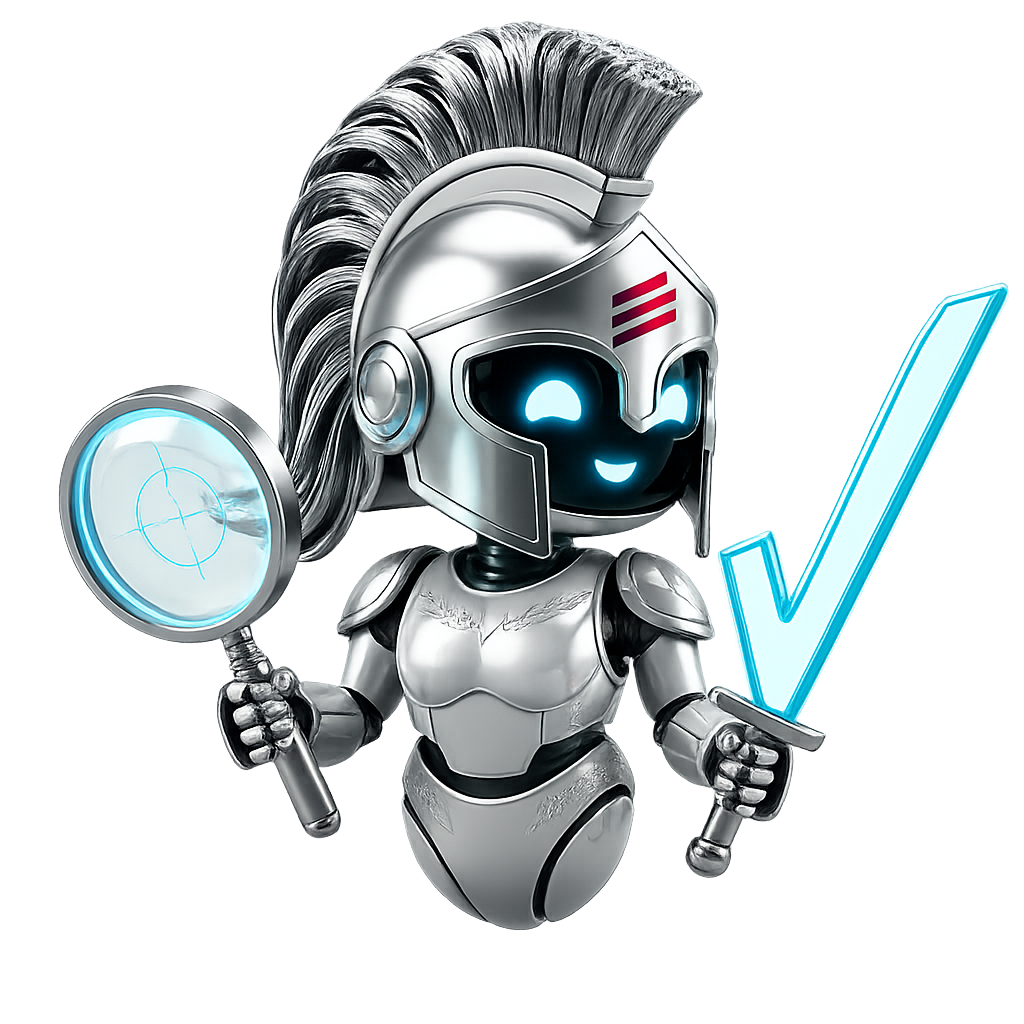
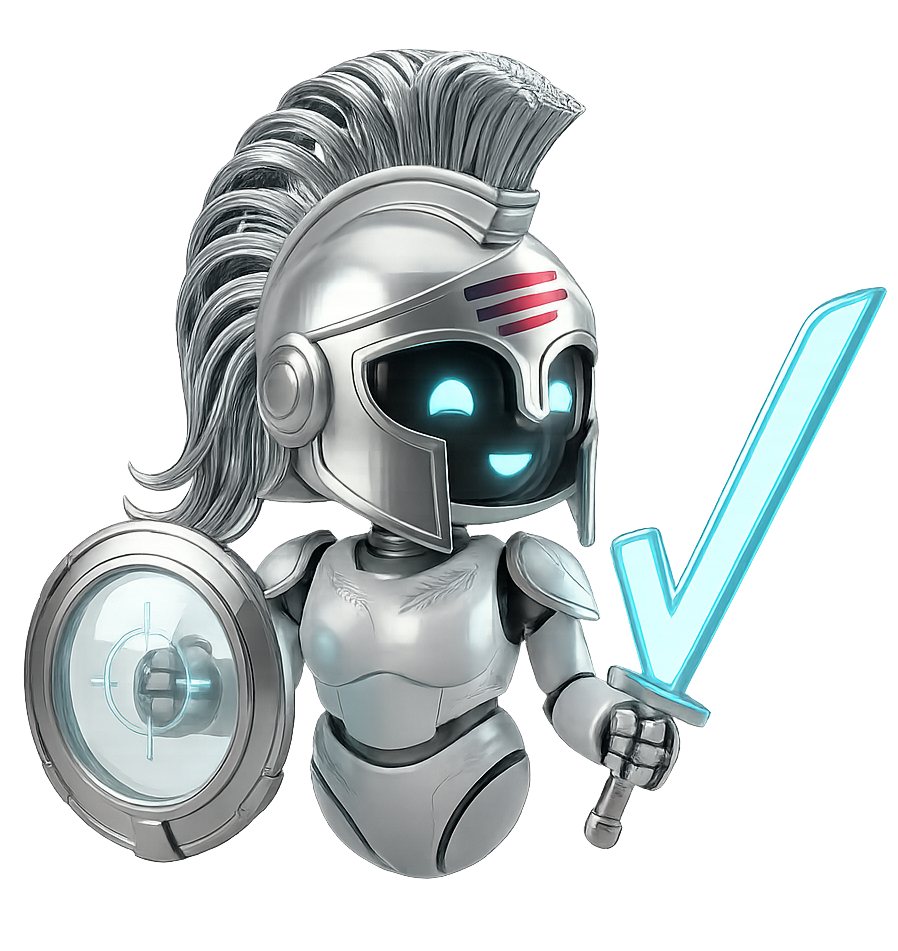
feat(ui): rediseñar backlog a 4 columnas verticales y actualizar robot Atena 2.0
- Rediseño del backlog en ConfigView2 a tablero Kanban de 4 columnas verticales por prioridad con scroll y conteo independientes.\n- Actualización del bot 3D ilustrativo en la página de inicio a la versión Atena 2.0.\n- Corrección de desfase de zona horaria (mismatch de fecha de 1 día) en selectores y cabeceras.\n- Configuración de puerto exclusivo HMR (24679) para eliminar colisiones de desarrollo paralelos.

diff --git a/src/components/ConfigView2.tsx b/src/components/ConfigView2.tsx
@@ -1196,8 +1196,8 @@ export default function ConfigView2() {
           </div>
         </div>
 
-        {/* Tablero Kanban en Formato Swimlanes con Cuadrícula Compacta */}
-        <div className="flex flex-col gap-6 flex-1 h-full overflow-y-auto pr-2 custom-scrollbar pb-4">
+        {/* Tablero Kanban en Formato de 4 Columnas Verticales con Scroll Independiente */}
+        <div className="grid grid-cols-1 md:grid-cols-4 gap-4 flex-1 min-h-[580px] overflow-hidden pb-4">
           {PRIORITIES.map(priority => {
             const tasks = backlog.filter(t => t.prioridad === priority.value);
             return (
@@ -1205,22 +1205,21 @@ export default function ConfigView2() {
                 key={priority.value} 
                 onDragOver={e => e.preventDefault()}
                 onDrop={e => onDrop(e, priority.value)}
-                className="flex gap-4 items-stretch group/lane bg-white/40 p-4 rounded-[24px] border border-slate-100 shadow-sm"
+                className="flex flex-col gap-4 bg-slate-50/40 p-4 rounded-[24px] border border-slate-100 shadow-sm h-[580px] overflow-hidden"
               >
-                {/* Etiqueta Lateral de Prioridad */}
-                <div className={`w-12 rounded-xl flex items-center justify-center transition-all ${priority.color.replace('bg-', 'bg-opacity-20 text-')}`} style={{ backgroundColor: priority.color.includes('bg-') ? undefined : priority.color + '15' }}>
-                  <div className={`flex flex-col items-center gap-2 py-4`}>
-                    <span className="text-[9px] font-black text-slate-400 bg-white/80 px-2 py-0.5 rounded-full mb-2">
-                      {tasks.length}
-                    </span>
-                    <h5 className="text-[10px] font-black uppercase tracking-[0.3em] -rotate-180 [writing-mode:vertical-lr] whitespace-nowrap drop-shadow-sm opacity-80">
-                      {priority.label}
-                    </h5>
+                {/* Cabecera Superior de la Columna */}
+                <div className="flex items-center justify-between p-3 rounded-2xl bg-white shadow-sm border border-slate-100">
+                  <div className="flex items-center gap-2">
+                    <span className={`w-2.5 h-2.5 rounded-full ${priority.color}`} />
+                    <span className="text-[10px] font-black text-slate-800 tracking-wider">{priority.label}</span>
                   </div>
+                  <span className="text-[9px] font-black text-slate-500 bg-slate-100 px-2 py-0.5 rounded-full">
+                    {tasks.length}
+                  </span>
                 </div>
-
-                {/* Contenedor Grid de Tareas */}
-                <div className="flex-1 flex flex-wrap gap-4 content-start">
+ 
+                {/* Contenedor de Tareas Vertical con Scrollbar */}
+                <div className="flex-1 flex flex-col gap-3 overflow-y-auto pr-1 custom-scrollbar pb-4">
                   {tasks.length > 0 ? (
                     tasks.map(task => (
                       <div 
@@ -1228,7 +1227,7 @@ export default function ConfigView2() {
                         draggable
                         onDragStart={e => handleDragStart(e, task.id)}
                         onClick={() => { setEditingTask(task); setIsModalOpen(true); }}
-                        className={`w-[240px] p-4 rounded-2xl border shadow-sm transition-all group/card relative cursor-pointer active:scale-95 flex flex-col gap-2 ${
+                        className={`w-full p-4 rounded-2xl border shadow-sm transition-all group/card relative cursor-pointer active:scale-95 flex flex-col gap-2 ${
                           task.status === 'nuevo'
                             ? 'bg-amber-50 border-amber-200 shadow-md ring-2 ring-amber-500/20'
                           : task.status === 'abierto' 
@@ -1285,8 +1284,8 @@ export default function ConfigView2() {
                       </div>
                     ))
                   ) : (
-                    <div className="w-full flex items-center justify-center opacity-40 py-6 border-2 border-dashed border-slate-200 rounded-2xl">
-                       <span className="text-[9px] font-black text-slate-400 uppercase tracking-widest">Sin tareas en esta prioridad</span>
+                    <div className="w-full flex flex-col items-center justify-center opacity-40 py-12 border-2 border-dashed border-slate-200 rounded-2xl">
+                       <span className="text-[9px] font-black text-slate-400 uppercase tracking-widest text-center">Sin tareas en esta prioridad</span>
                     </div>
                   )}
                 </div>

diff --git a/seed_massive.ts b/seed_massive.ts
@@ -1,0 +1,80 @@
+import Database from 'better-sqlite3';
+const db = new Database('database.db');
+
+console.log("🚀 Iniciando Seeding Masivo de Alta Densidad para la rama de trabajo...");
+
+// Limpiar base de datos para asegurar un estado limpio y comparativo
+db.transaction(() => {
+  db.prepare("DELETE FROM Tareas").run();
+  db.prepare("DELETE FROM PlanesDiarios").run();
+  db.prepare("DELETE FROM Incidencias").run();
+  db.prepare("DELETE FROM BloquesNoDisponibles").run();
+  db.prepare("DELETE FROM Backlog").run();
+})();
+
+const areas = ['OPERACIONES', 'MONITOREO', 'ESTRATEGIA', 'SEGURIDAD', 'CALIDAD', 'INFRAESTRUCTURA'];
+const statusList = ['nuevo', 'abierto', 'pendiente', 'en espera', 'resuelto', 'fallo', 'despriorizado'];
+const priorities = [10, 7, 4, 2];
+
+// Generar data para los últimos 30 días
+for (let i = 0; i < 30; i++) {
+  const d = new Date();
+  d.setDate(d.getDate() - i);
+  const dateStr = d.toISOString().split('T')[0];
+  const isWeekend = d.getDay() === 0 || d.getDay() === 6;
+
+  if (isWeekend) continue; // No trabajamos fines de semana
+
+  // Tareas diarias
+  const taskCount = 4 + Math.floor(Math.random() * 5);
+  
+  // Agregar plan diario
+  db.prepare(`
+    INSERT OR REPLACE INTO PlanesDiarios (date, hora_inicio, hora_fin, horas_efectivas, estado_cierre, ejecucion_iniciada)
+    VALUES (?, '08:00', '17:00', 6.0, 1, 1)
+  `).run(dateStr);
+
+  for (let j = 0; j < taskCount; j++) {
+    const prioridad = priorities[Math.floor(Math.random() * priorities.length)];
+    const area = areas[Math.floor(Math.random() * areas.length)];
+    const status = statusList[Math.floor(Math.random() * statusList.length)];
+    const completada = ['resuelto', 'terminada'].includes(status) ? 1 : 0;
+    
+    // Insertar en Tareas
+    db.prepare(`
+      INSERT INTO Tareas (fecha, actividad, prioridad, area, estado_ejecucion, tiempo_asignado_minutos, tiempo_invertido_minutos, hallazgos, completada)
+      VALUES (?, ?, ?, ?, ?, ?, ?, ?, ?)
+    `).run(
+      dateStr,
+      `Tarea operativa ${j + 1} - Módulo ${area}`,
+      prioridad,
+      area,
+      status,
+      60,
+      status === 'resuelto' ? 45 + Math.floor(Math.random() * 30) : 0,
+      status === 'resuelto' ? 'Ejecución completada según protocolo estándar.' : null,
+      completada
+    );
+
+    // Insertar en Backlog también
+    db.prepare(`
+      INSERT INTO Backlog (actividad, prioridad, area, status, created_at)
+      VALUES (?, ?, ?, ?, ?)
+    `).run(
+      `Ítem de Backlog #${Math.floor(Math.random() * 1000)}`,
+      prioridad,
+      area,
+      status === 'resuelto' ? 'resuelto' : 'pendiente',
+      dateStr
+    );
+  }
+
+  // Bloque almuerzo
+  db.prepare(`
+    INSERT INTO BloquesNoDisponibles (fecha, hora_inicio, hora_fin, tipo)
+    VALUES (?, '13:00', '14:00', 'Almuerzo')
+  `).run(dateStr);
+}
+
+console.log("✅ Seeding completado con éxito. 30 días de historia generados.");
+db.close();

diff --git a/server.ts b/server.ts
@@ -626,7 +626,7 @@ async function startServer() {
   app.post("/api/ai/generate-report", async (req, res) => {
     try {
       const { prompt } = req.body;
-      const model = genAI.getGenerativeModel({ model: "gemini-1.5-flash" });
+      const model = genAI.getGenerativeModel({ model: "gemini-3.1-flash-lite" });
       const response = await model.generateContent(prompt);
       res.json({ text: response.response.text() });
     } catch (error) {
@@ -638,7 +638,7 @@ async function startServer() {
   app.post("/api/ia/procesar-backlog", async (req, res) => {
     const { text } = req.body;
     try {
-      const model = genAI.getGenerativeModel({ model: "gemini-1.5-flash" });
+      const model = genAI.getGenerativeModel({ model: "gemini-3.1-flash-lite" });
       const result = await model.generateContent(`Eres Atenea, una IA experta en Inteligencia Operativa.
             Analiza el siguiente texto y extrae una lista de tareas para el backlog.
             Categoriza cada tarea por área (Monitoreo, Feedback, Tendencias, Alertas, General) y asigna una prioridad (10: Crítica, 7: Alta, 4: Media, 2: Baja).
@@ -677,7 +677,7 @@ async function startServer() {
   app.post("/api/ai/analyze-backlog", async (req, res) => {
     try {
       const { text } = req.body;
-      const model = genAI.getGenerativeModel({ model: "gemini-1.5-flash" });
+      const model = genAI.getGenerativeModel({ model: "gemini-3.1-flash-lite" });
       const response = await model.generateContent(`Analiza el siguiente texto libre y extrae una lista de actividades concretas para un backlog. 
         Para cada actividad:
         1. Asigna una prioridad basada en el contexto (10 para crítica, 7 para alta, 4 para media, 2 para baja).

diff --git a/src/components/AgendaView2.tsx b/src/components/AgendaView2.tsx
@@ -259,7 +259,7 @@ export default function AgendaView2({ onNavigate, selectedDate, setSelectedDate 
   });
   
   const isToday = selectedDate === new Date().toISOString().split('T')[0];
-  const isPast = new Date(selectedDate) < new Date(new Date().toISOString().split('T')[0]);
+  const isPast = selectedDate < new Date().toISOString().split('T')[0];
   const isClosed = plan?.estado_cierre === 1;
   const isExecutionStarted = plan?.ejecucion_iniciada === 1;
 
@@ -627,7 +627,7 @@ export default function AgendaView2({ onNavigate, selectedDate, setSelectedDate 
               <div>
                  <h2 className="text-3xl font-black text-slate-900 tracking-tight">Agenda de Operaciones</h2>
                  <p className="text-xs font-bold text-slate-400 uppercase tracking-[0.3em] mt-1">
-                    {new Date(selectedDate).toLocaleDateString('es-ES', { weekday: 'long', day: 'numeric', month: 'long' })}
+                    {new Date(selectedDate + 'T00:00:00').toLocaleDateString('es-ES', { weekday: 'long', day: 'numeric', month: 'long' })}
                  </p>
               </div>
            </div>

diff --git a/src/components/CommandCenterView.tsx b/src/components/CommandCenterView.tsx
@@ -303,7 +303,7 @@ export default function CommandCenterView() {
           <div className="flex items-center gap-3 bg-bg-main p-1.5 rounded-xl border border-border-soft">
             <button className="p-2 hover:bg-white hover:shadow-sm rounded-lg transition-all"><ChevronLeft size={18} /></button>
             <div className="px-4 py-1 text-sm font-bold text-primary">
-              Semana del {new Date(selectedWeekStart).toLocaleDateString('es-ES', { day: 'numeric', month: 'short' })}
+              Semana del {new Date(selectedWeekStart + 'T00:00:00').toLocaleDateString('es-ES', { day: 'numeric', month: 'short' })}
             </div>
             <button className="p-2 hover:bg-white hover:shadow-sm rounded-lg transition-all"><ChevronRight size={18} /></button>
           </div>

diff --git a/src/components/AgendaView.tsx b/src/components/AgendaView.tsx
@@ -67,7 +67,7 @@ export default function AgendaView({ onNavigate }: { onNavigate?: (view: any) =>
   });
   
   const isToday = selectedDate === new Date().toISOString().split('T')[0];
-  const isPast = new Date(selectedDate) < new Date(new Date().toISOString().split('T')[0]);
+  const isPast = selectedDate < new Date().toISOString().split('T')[0];
   const isClosed = plan?.estado_cierre === 1;
   const isExecutionStarted = plan?.ejecucion_iniciada === 1;
 

diff --git a/vite.config.ts b/vite.config.ts
@@ -18,7 +18,7 @@ export default defineConfig(({mode}) => {
     server: {
       // HMR is disabled in AI Studio via DISABLE_HMR env var.
       // Do not modifyâfile watching is disabled to prevent flickering during agent edits.
-      hmr: process.env.DISABLE_HMR !== 'true',
+      hmr: { port: 24679 },
     },
   };
 });
